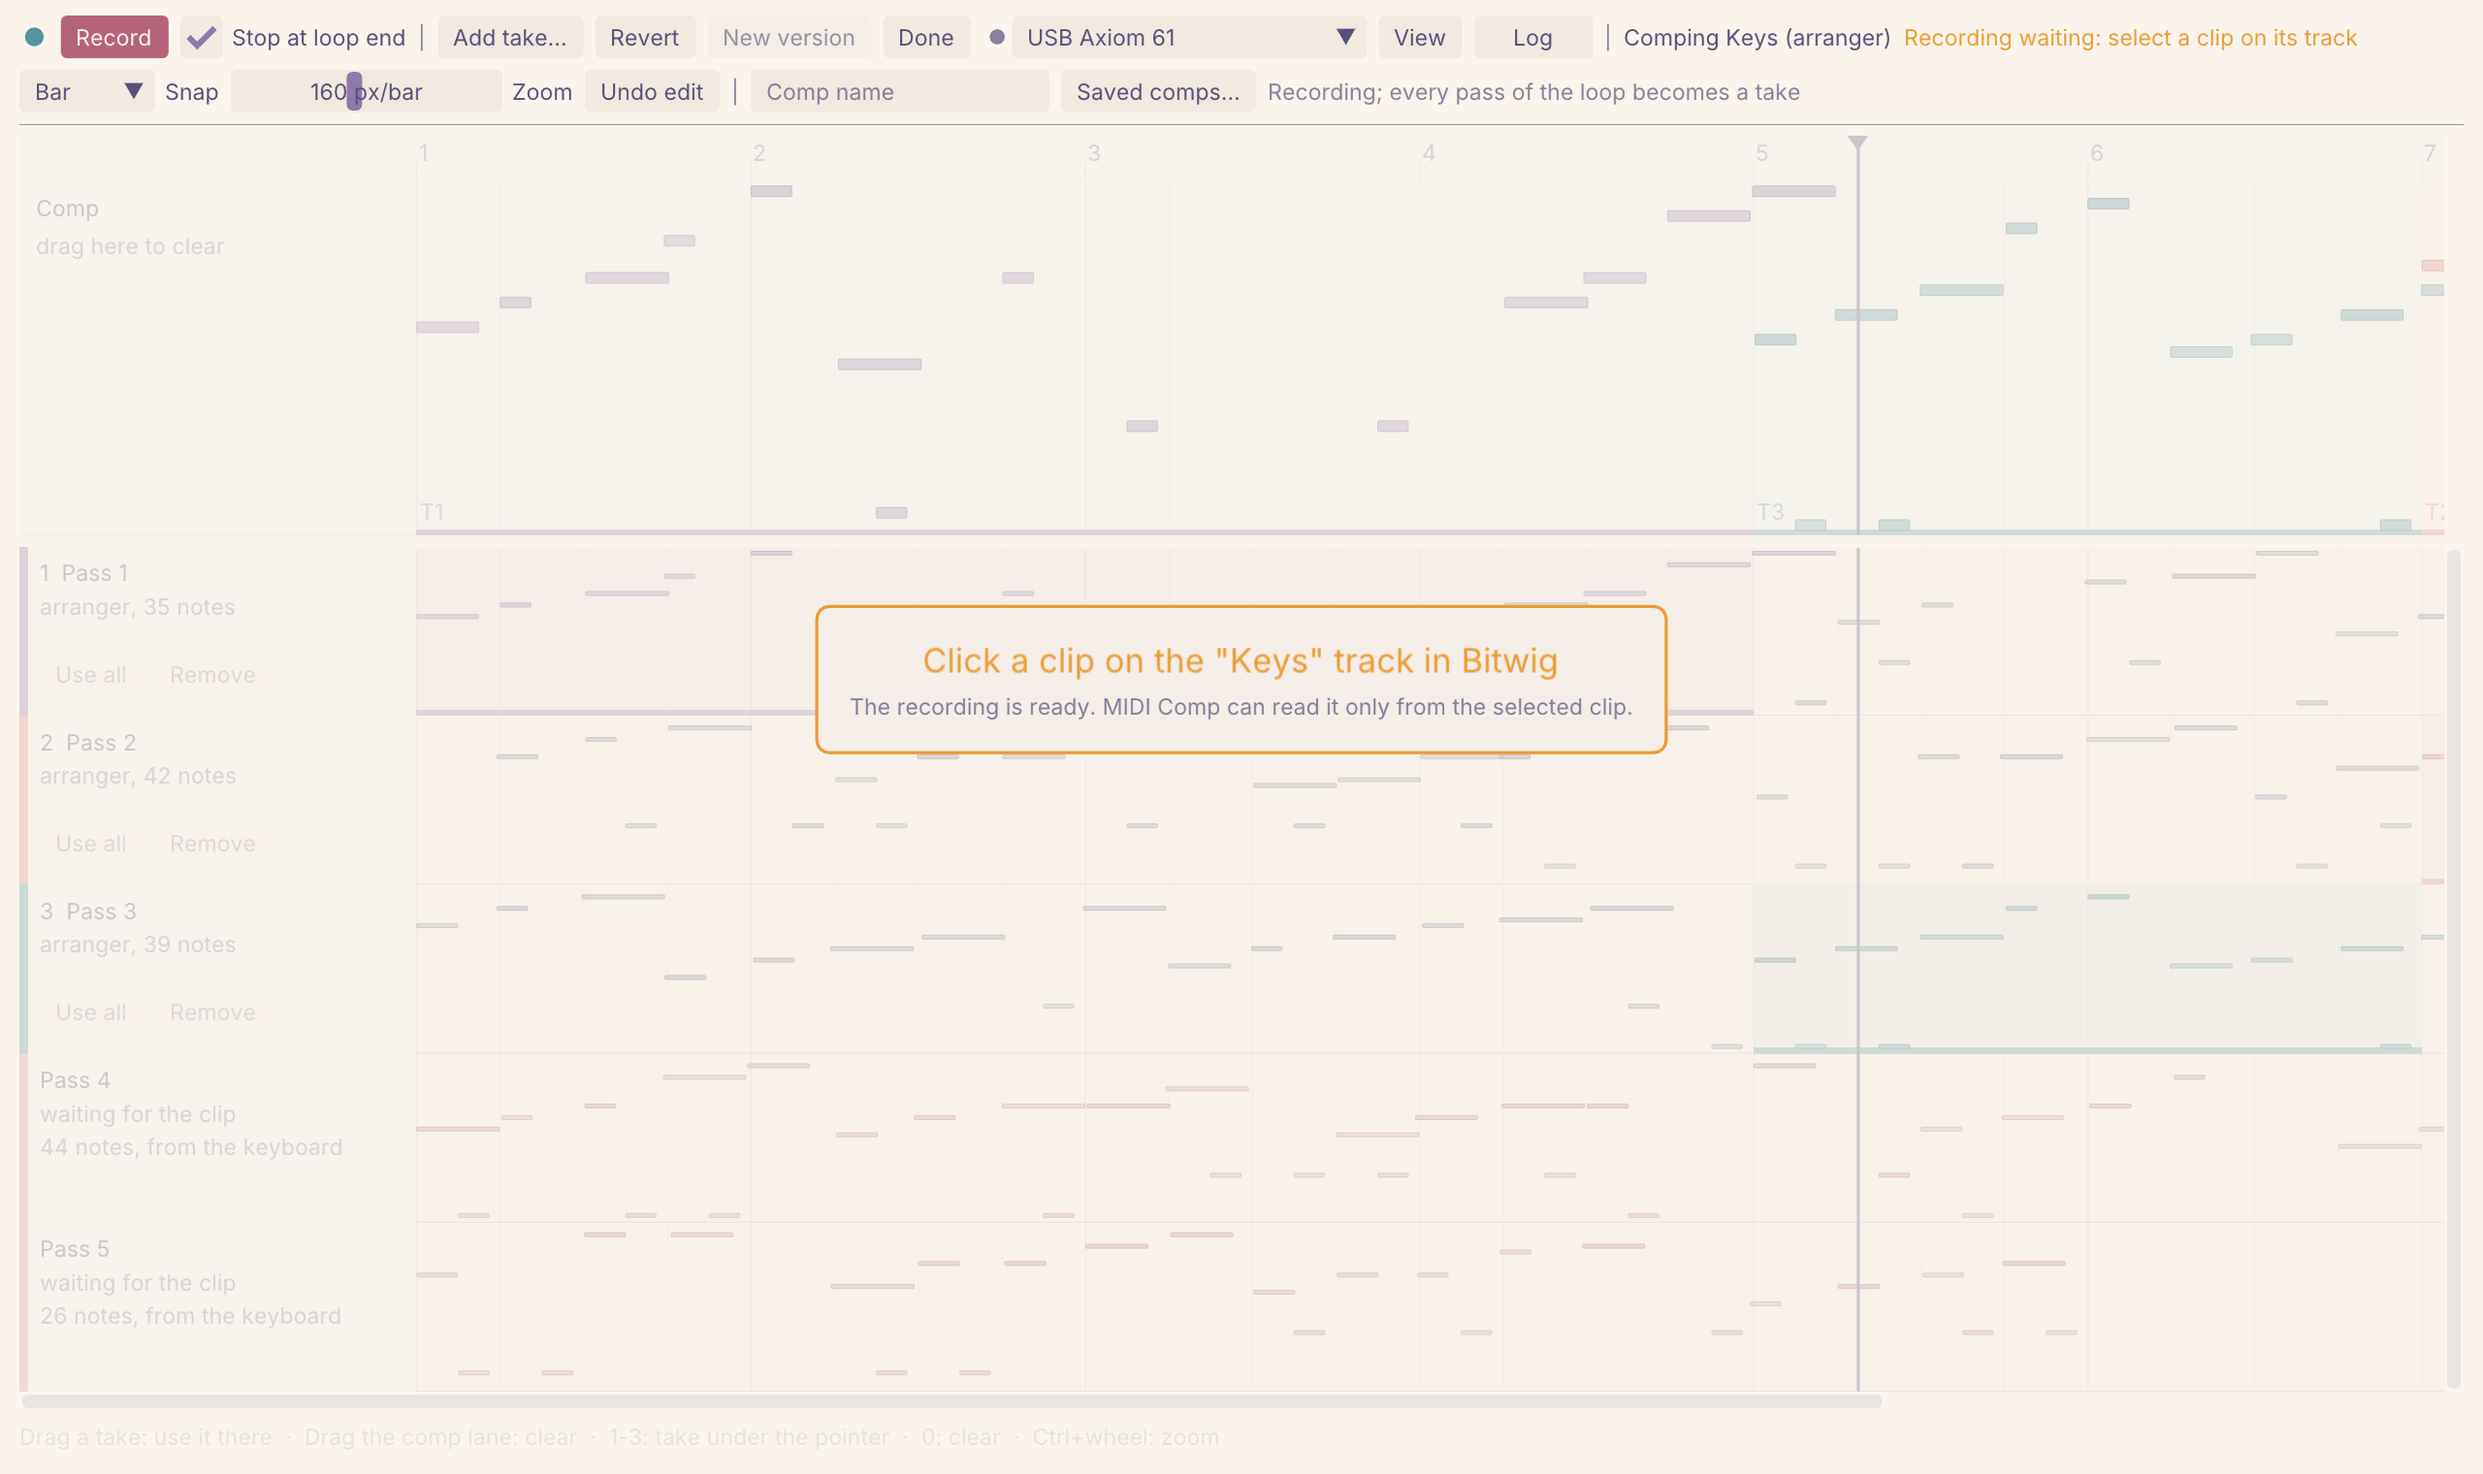
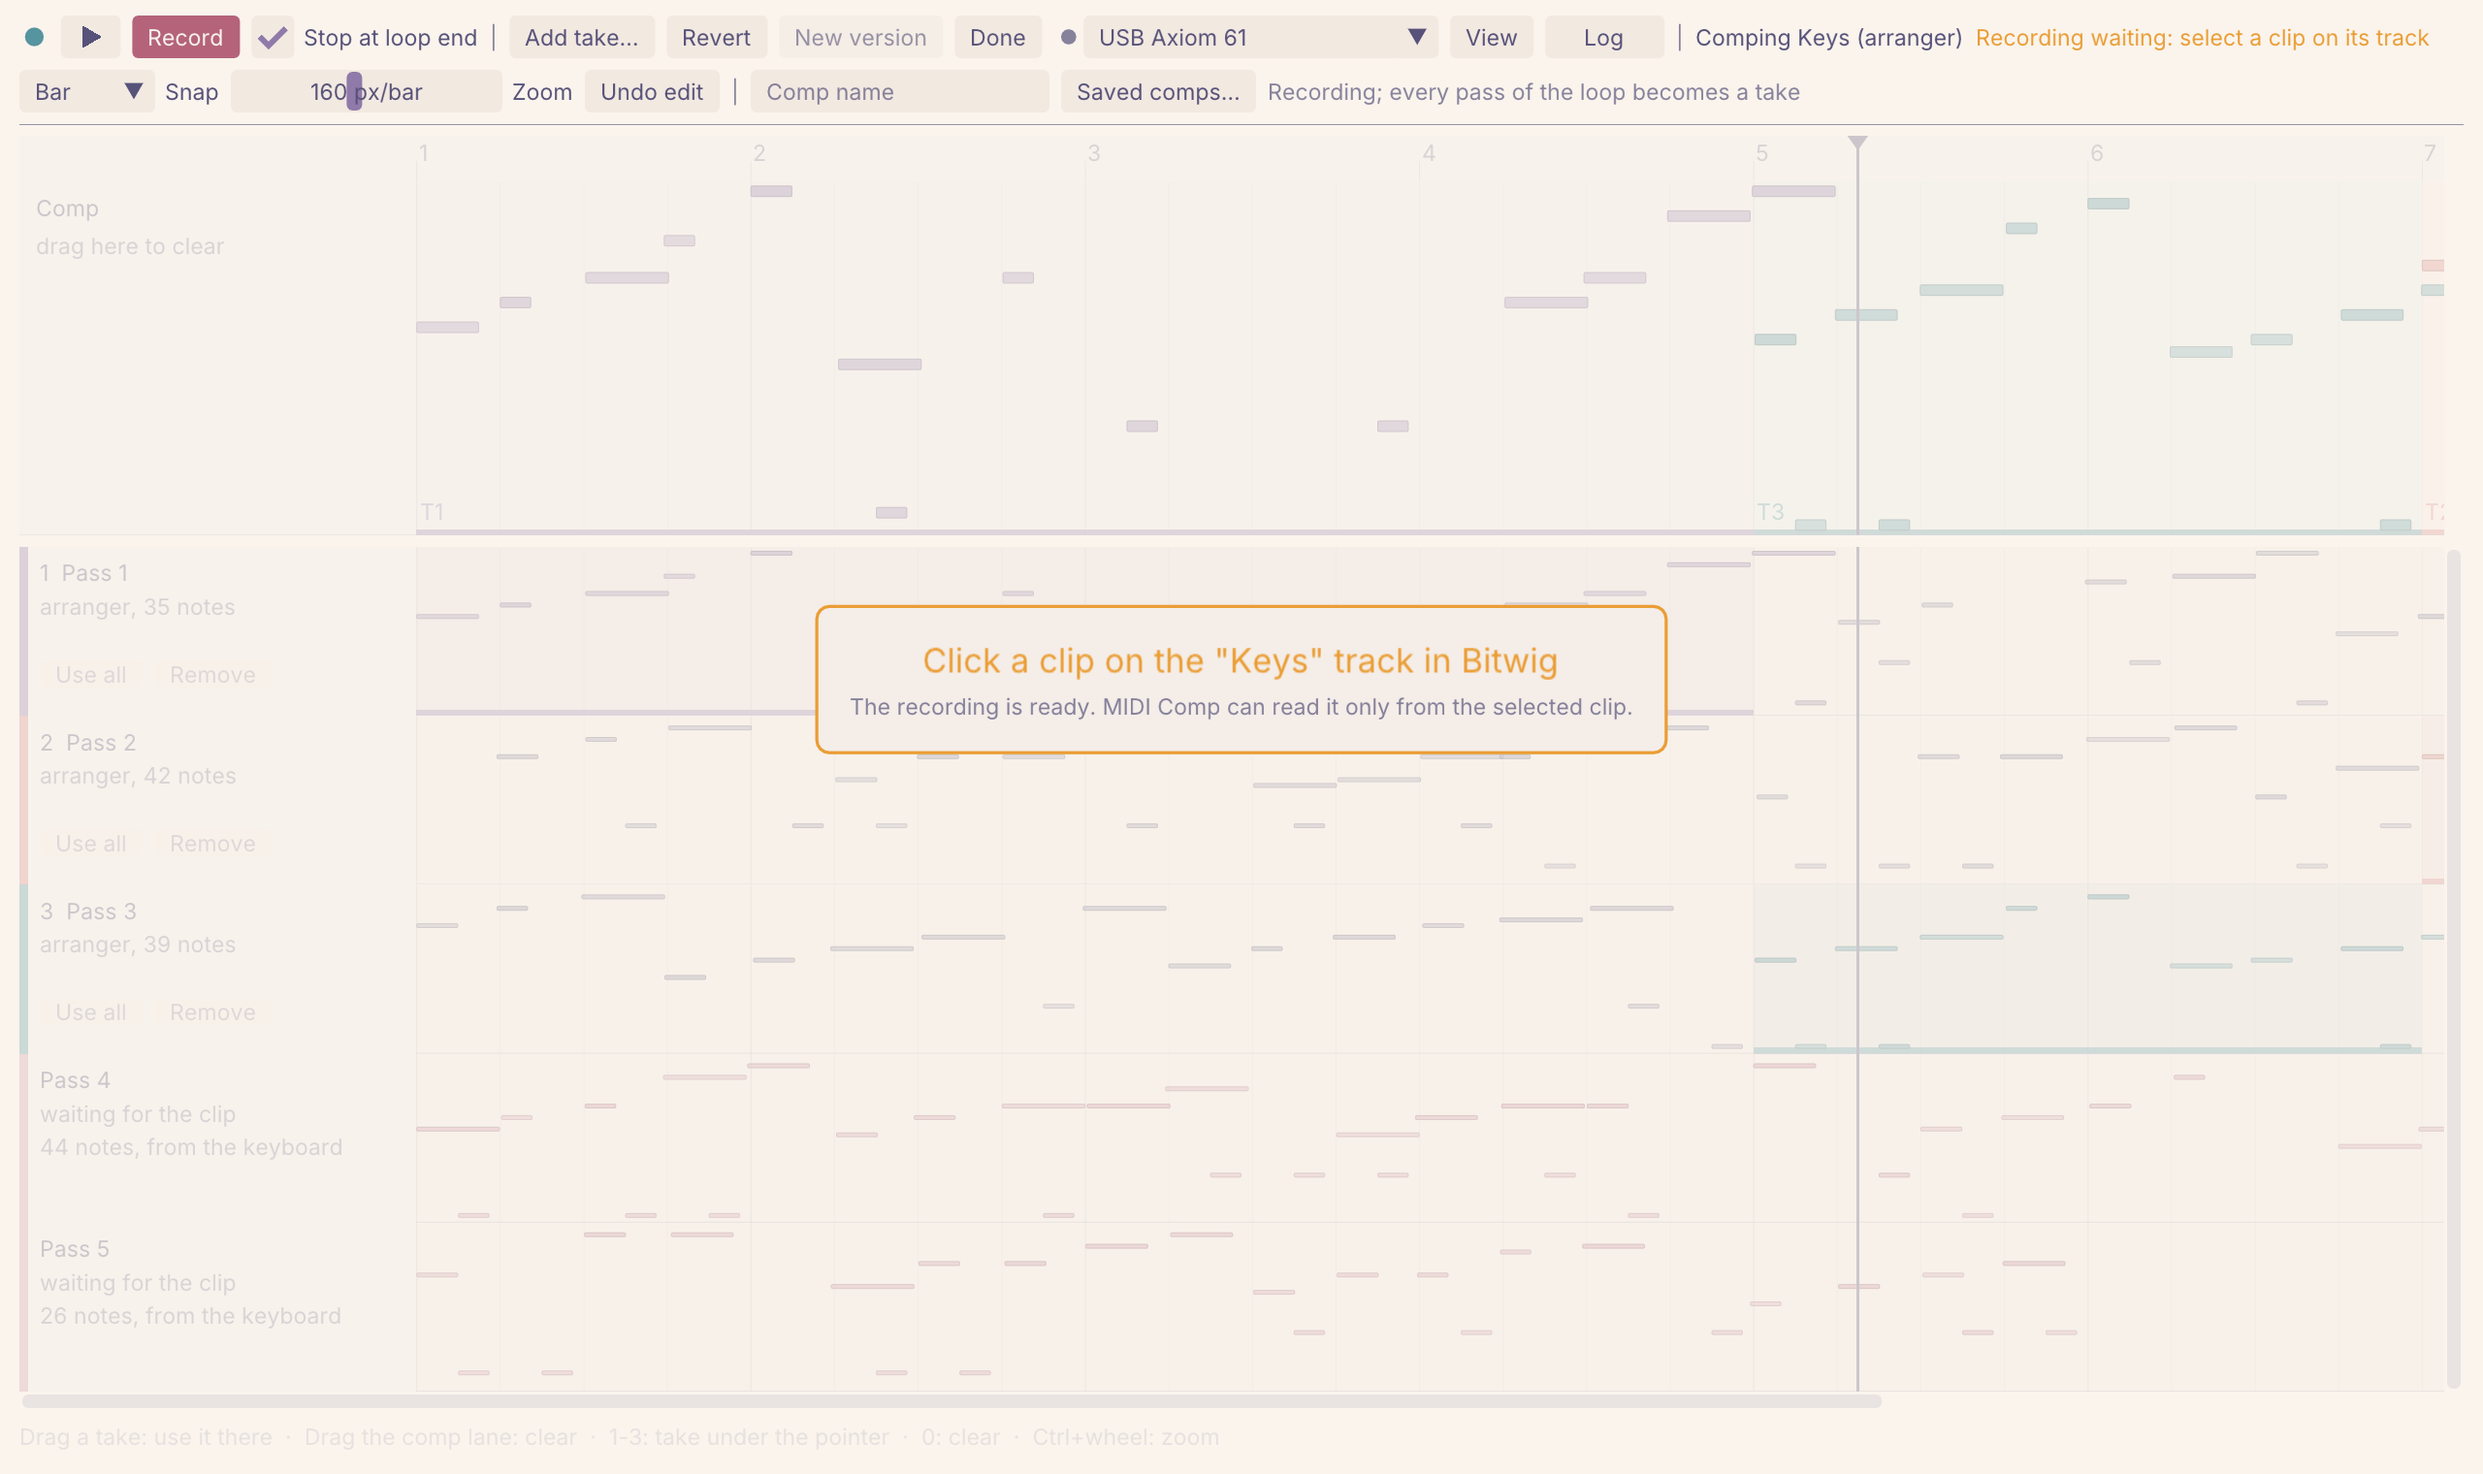
Play, stop and move the playhead from the companion
- transport (play, stop, toggle) starts and stops Bitwig; the playhead
  document reports whether the transport plays.
- A play/stop button at the start of the toolbar (drawn icons) and
  Space toggle playback; Left/Right move the playhead by a grid cell
  (Shift: a beat), Home to the clip start. Keys are ignored in text
  fields and popups. Together with Record, recording can be run from
  the companion.
- Screenshots re-rendered.

Changed region(s): [[0.0, 0.0, 0.5, 0.0618], [0.6562, 0.0, 0.9688, 0.0309], [0.5625, 0.0, 0.625, 0.0309]]

diff --git a/companion/src/comp_view.cpp b/companion/src/comp_view.cpp
@@ -71,6 +71,8 @@ void CompView::draw(ApiClient& client) {
     client.setPollPlayhead(comping);
     playhead_ = comping ? client.playhead() : Playhead{};
     playheadStep_ = follower_.position(playhead_, std::chrono::steady_clock::now());
+    if (comping)
+        handleTransportKeys(client, *state);
     handleScaleKeys();
 
     drawToolbar(client, state);
@@ -177,6 +179,8 @@ void CompView::drawToolbar(ApiClient& client, const State* state) {
     if (state == nullptr || !state->session) {
     } else {
         const Session& session = *state->session;
+        drawTransportButton(client);
+        ImGui::SameLine();
         // Buttons whose label changes keep one width, so nothing after them moves.
         const float recordWidth =
             ImGui::CalcTextSize("Record").x + 2.0f * ImGui::GetStyle().FramePadding.x;
@@ -863,6 +867,48 @@ void CompView::drawLanes(ApiClient& client, const State& state) {
     }
     ImGui::EndChild();
     drawHints(state);
+}
+
+void CompView::drawTransportButton(ApiClient& client) {
+    // Drawn icons: the UI font has no play or stop symbols.
+    const float h = ImGui::GetFrameHeight();
+    const bool playing = playhead_.transportPlaying;
+    if (ImGui::Button("##transport", ImVec2(h * 1.4f, h)))
+        client.send("transport", {{"action", playing ? "stop" : "play"}});
+    ImGui::SetItemTooltip("%s", playing ? "Stop (Space)" : "Play (Space)");
+    const ImVec2 min = ImGui::GetItemRectMin();
+    const ImVec2 max = ImGui::GetItemRectMax();
+    const ImVec2 c((min.x + max.x) * 0.5f, (min.y + max.y) * 0.5f);
+    const float r = h * 0.22f;
+    ImDrawList* dl = ImGui::GetWindowDrawList();
+    if (playing)
+        dl->AddRectFilled(ImVec2(c.x - r, c.y - r), ImVec2(c.x + r, c.y + r), palette_.text);
+    else
+        dl->AddTriangleFilled(ImVec2(c.x - r * 0.8f, c.y - r * 1.1f),
+                              ImVec2(c.x - r * 0.8f, c.y + r * 1.1f), ImVec2(c.x + r * 1.1f, c.y),
+                              palette_.text);
+}
+
+void CompView::handleTransportKeys(ApiClient& client, const State& state) {
+    const ImGuiIO& io = ImGui::GetIO();
+    if (io.WantTextInput || io.KeyCtrl || ImGui::IsPopupOpen("", ImGuiPopupFlags_AnyPopupId))
+        return;
+    if (ImGui::IsKeyPressed(ImGuiKey_Space, false))
+        client.send("transport", {{"action", "toggle"}});
+    if (!playhead_.canSeek || state.length <= 0)
+        return;
+    // Left and right move by a grid cell (Shift: a beat), Home to the start of the clip.
+    const int grid = io.KeyShift ? state.stepsPerBeat : std::max(1, gridSteps(state));
+    const int here = std::max(0, static_cast<int>(std::lround(playheadStep_)));
+    std::optional<int> target;
+    if (ImGui::IsKeyPressed(ImGuiKey_Home, false))
+        target = 0;
+    else if (ImGui::IsKeyPressed(ImGuiKey_RightArrow, true))
+        target = (here / grid + 1) * grid;
+    else if (ImGui::IsKeyPressed(ImGuiKey_LeftArrow, true))
+        target = here % grid != 0 ? here / grid * grid : (here / grid - 1) * grid;
+    if (target)
+        client.send("seek", {{"step", str(std::clamp(*target, 0, state.length))}});
 }
 
 void CompView::handleRulerInput(ApiClient& client, const State& state, const Layout& layout,

diff --git a/src/main/java/midicomp/MidiCompExtension.java b/src/main/java/midicomp/MidiCompExtension.java
@@ -458,6 +458,7 @@ public class MidiCompExtension extends ControllerExtension
          case "record" -> startRecording(!"false".equals(p.get("stopAtEnd")));
          case "stopRecording" -> stopRecording();
          case "seek" -> seek(intParam(p, "step"));
+         case "transport" -> transportAction(p.getOrDefault("action", ""));
          case "revert" -> undoLastWrite();
          default -> Result.fail("Unknown command: " + op);
       };
@@ -1248,8 +1249,30 @@ public class MidiCompExtension extends ControllerExtension
       }
       final double stepsPerSecond = transport.tempo().value().getRaw() / 60.0 / stepSize;
       return String.format(java.util.Locale.ROOT,
-         "{\"playing\":%b,\"step\":%d,\"stepsPerSecond\":%.3f,\"canSeek\":%b}",
-         playing && step >= 0, step, stepsPerSecond, !Double.isNaN(arrangerClipStart()));
+         "{\"playing\":%b,\"step\":%d,\"stepsPerSecond\":%.3f,\"canSeek\":%b,"
+            + "\"transportPlaying\":%b}",
+         playing && step >= 0, step, stepsPerSecond, !Double.isNaN(arrangerClipStart()), playing);
+   }
+
+   /**
+    * Starts or stops Bitwig's transport, as its play and stop buttons do.
+    *
+    * Args:
+    *    action: ``play``, ``stop`` or ``toggle``.
+    */
+   private Result transportAction(final String action)
+   {
+      switch (action)
+      {
+         case "play" -> transport.play();
+         case "stop" -> transport.stop();
+         case "toggle" -> transport.togglePlay();
+         default ->
+         {
+            return Result.fail("Unknown transport action: " + action);
+         }
+      }
+      return Result.ok(action.equals("stop") ? "Stopped" : "Playing");
    }
 
    /**

diff --git a/companion/tests/companion_tests.cpp b/companion/tests/companion_tests.cpp
@@ -338,7 +338,12 @@ void testPlayhead() {
     // The follower never steps back for an update that lags slightly, and snaps on jumps.
     using std::chrono::milliseconds;
     PlayheadFollower follower;
-    Playhead p{.playing = true, .step = 1000, .stepsPerSecond = 512.0, .canSeek = true, .at = t0};
+    Playhead p{.playing = true,
+               .step = 1000,
+               .stepsPerSecond = 512.0,
+               .canSeek = true,
+               .transportPlaying = true,
+               .at = t0};
     CHECK(std::abs(follower.position(p, t0) - 1000.0) < 1e-6);
     const double before = follower.position(p, t0 + milliseconds(50));  // 1025.6
     p.step = 1020;  // 50 ms later Bitwig reports a position 10 ms behind

diff --git a/companion/src/comp_view.hpp b/companion/src/comp_view.hpp
@@ -140,6 +140,10 @@ class CompView {
     void drawSessionStatus(const State& state);
     void drawLanes(ApiClient& client, const State& state);
     void drawRuler(ImDrawList* dl, const State& state, const Layout& layout, float y) const;
+    /** Draws the play/stop button. */
+    void drawTransportButton(ApiClient& client);
+    /** Space: play or stop; Left, Right, Home: move the playhead. */
+    void handleTransportKeys(ApiClient& client, const State& state);
     /** Moves the playhead to a clicked ruler position (arranger clips). */
     void handleRulerInput(ApiClient& client, const State& state, const Layout& layout,
                           float height);

diff --git a/companion/src/api_client.hpp b/companion/src/api_client.hpp
@@ -35,7 +35,8 @@ struct Playhead {
     bool playing = false;
     int step = -1;  ///< Step being played, or -1 outside the clip.
     double stepsPerSecond = 0.0;
-    bool canSeek = false;  ///< ``seek`` works (arranger clip whose position is known).
+    bool canSeek = false;           ///< ``seek`` works (arranger clip whose position is known).
+    bool transportPlaying = false;  ///< Bitwig plays, inside the clip or not.
     std::chrono::steady_clock::time_point at{};  ///< When it was received.
 
     /**

diff --git a/companion/src/api_client.cpp b/companion/src/api_client.cpp
@@ -63,6 +63,7 @@ std::optional<Playhead> parsePlayhead(const std::string_view json) {
                         .step = j.value("step", -1),
                         .stepsPerSecond = j.value("stepsPerSecond", 0.0),
                         .canSeek = j.value("canSeek", false),
+                        .transportPlaying = j.value("transportPlaying", false),
                         .at = {}};
     } catch (const nlohmann::json::exception&) {
         return std::nullopt;

diff --git a/API.md b/API.md
@@ -112,6 +112,7 @@ Bitwig did not process the command within 5 s.
 | `newVersion` |                             | Launcher sessions: duplicate the session clip into another slot and continue on the copy with the same takes and segments; the original keeps its comp. The session ends at once and starts on the copy when Bitwig selects it, after renaming it with a version suffix. If Bitwig does not select the copy within 4 s, the log says so. Fails for arranger sessions. |
 | `record`     | `stopAtEnd=true\|false`     | Arranger sessions, with a clip on the comp track selected: empty the clip, then record from the loop start. Passes become takes (assembled with the keyboard notes from `played`, see below); the comp is written back when recording ends. With `stopAtEnd` (default) recording stops when the loop wraps. |
 | `stopRecording` |                          | Stop the transport and arranger recording. |
+| `transport`  | `action=play\|stop\|toggle` | Start or stop Bitwig's transport. |
 | `seek`       | `step`                      | Arranger sessions: move the playhead to a step of the session clip (sets the play start, and jumps there while playing). Needs the clip's position in the arrangement, which the extension learns while the clip plays. |
 | `revert`     |                             | Restore the clip as it was before the session and end it. |
 | `addTake`    | `source=launcher\|arranger` | Copy the selected clip's notes as a new take. |
@@ -153,13 +154,15 @@ The playhead in the session clip, kept out of the state because it changes many 
 (clients poll it, the companion about 20 times a second):
 
 ```json
-{"playing": true, "step": 1834, "stepsPerSecond": 512.0, "canSeek": true}
+{"playing": true, "step": 1834, "stepsPerSecond": 512.0, "canSeek": true,
+ "transportPlaying": true}
 ```
 
 `step` is the step being played in the session clip, or `-1` outside it. For arranger clips
 whose position is known (learned while the clip plays: transport position minus playing step),
 it also follows the transport while the clip is not selected, and shows the play start position
-while stopped. `canSeek` says whether `seek` works. While Bitwig records into a hidden arranger clip, it is derived from the
+while stopped. `canSeek` says whether `seek` works; `transportPlaying` whether Bitwig plays at
+all. While Bitwig records into a hidden arranger clip, it is derived from the
 transport position and the loop start in the clip measured at the last recording.
 `stepsPerSecond` lets clients interpolate between polls.
 

diff --git a/README.md b/README.md
@@ -78,6 +78,11 @@ pointer, `0` or `Delete` clears it, `Ctrl+Z` undoes the last edit, `Ctrl`+wheel 
 `Shift`+wheel scrolls. Take lanes scroll vertically below the fixed comp lane. Double-click a
 take's name to rename it (`Enter` keeps the name, `Escape` cancels).
 
+**Transport keys** (while comping, outside text fields): `Space` plays or stops Bitwig, like
+the play button at the start of the toolbar; for arranger clips, `Left` and `Right` move the
+playhead by one grid cell (`Shift`: one beat) and `Home` moves it to the start of the clip.
+With *Record*, recording can be run entirely from the companion.
+
 **Overwriting.** The comp clip is always overwritten with the comp: edits made to it directly in
 Bitwig are replaced at the next comp change, and recorded passes are replaced once recording
 stops (by then they are takes). Comps are built from the full notes (every attribute the API
